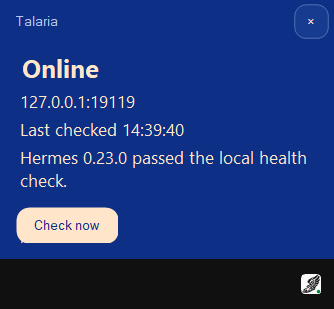
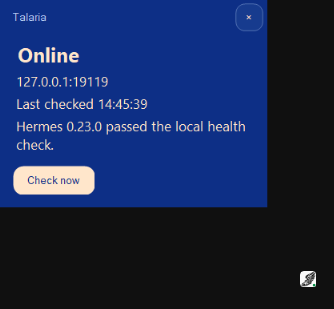
Fix rounded button rendering at high DPI

diff --git a/src/Talaria.Ui.cs b/src/Talaria.Ui.cs
@@ -50,7 +50,7 @@ namespace Talaria.UI
             this.prominent = prominent;
             FlatStyle = FlatStyle.Flat;
             FlatAppearance.BorderSize = 0;
-            BackColor = Color.Transparent;
+            BackColor = palette.Surface;
             ForeColor = palette.Ink;
             AutoSize = true;
             MinimumSize = new Size(36, 36);
@@ -60,6 +60,7 @@ namespace Talaria.UI
 
         protected override void OnPaint(PaintEventArgs e)
         {
+            e.Graphics.Clear(palette.Surface);
             Color fill = Enabled && prominent ? palette.Accent : palette.Panel;
             Color text = !Enabled ? palette.Muted : prominent ? palette.OnAccent : palette.Ink;
             if (Enabled && (pressed || hovered)) fill = Mix(fill, text, pressed ? 0.20 : 0.10);

diff --git a/src/Hermes.ServerTray.cs b/src/Hermes.ServerTray.cs
@@ -16,7 +16,7 @@ using Talaria.UI;
 using Timer = System.Windows.Forms.Timer;
 
 [assembly: System.Reflection.AssemblyTitle("Talaria")]
-[assembly: System.Reflection.AssemblyVersion("0.1.2.0")]
+[assembly: System.Reflection.AssemblyVersion("0.1.3.0")]
 
 namespace HermesServerTray
 {

diff --git a/src/Hermes.SetupLauncher.cs b/src/Hermes.SetupLauncher.cs
@@ -9,7 +9,7 @@ using System.Windows.Forms;
 using Talaria.UI;
 
 [assembly: AssemblyTitle("Talaria Setup")]
-[assembly: AssemblyVersion("0.1.2.0")]
+[assembly: AssemblyVersion("0.1.3.0")]
 
 internal static class SetupLauncher
 {
